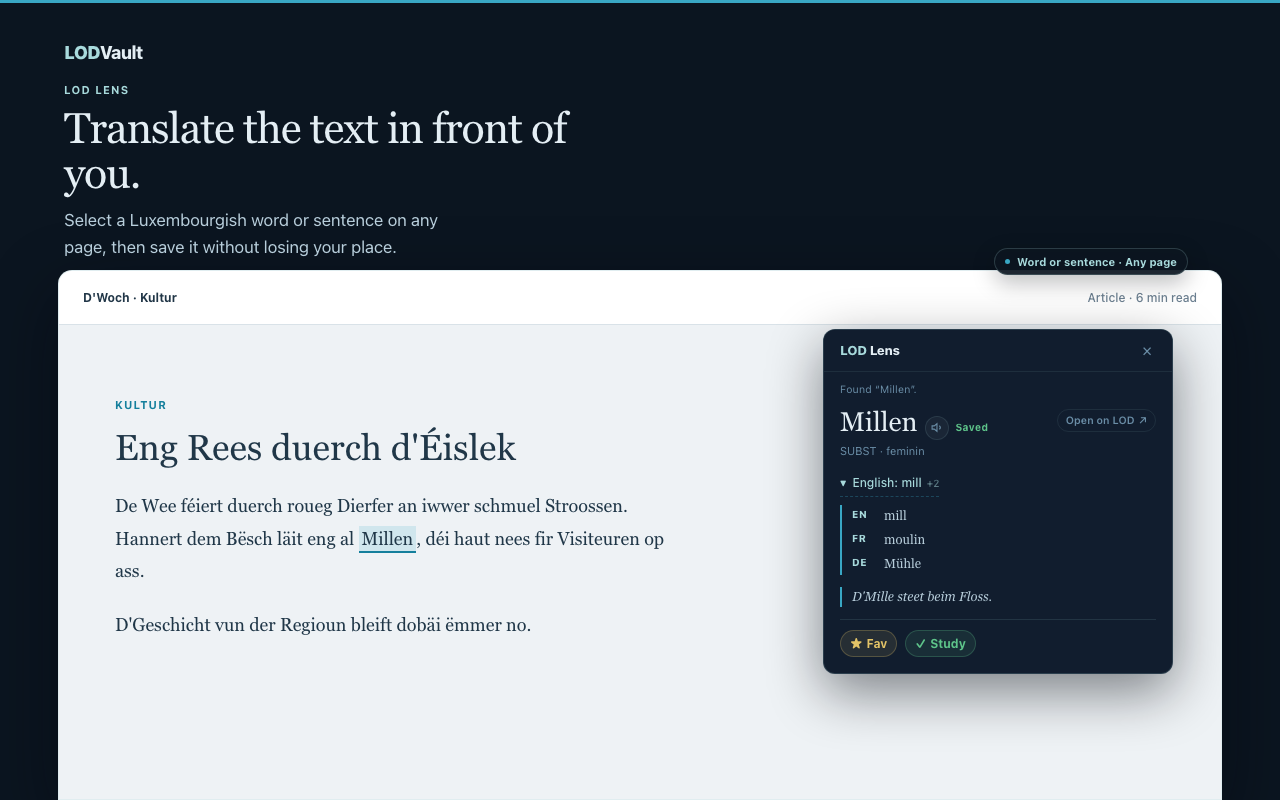
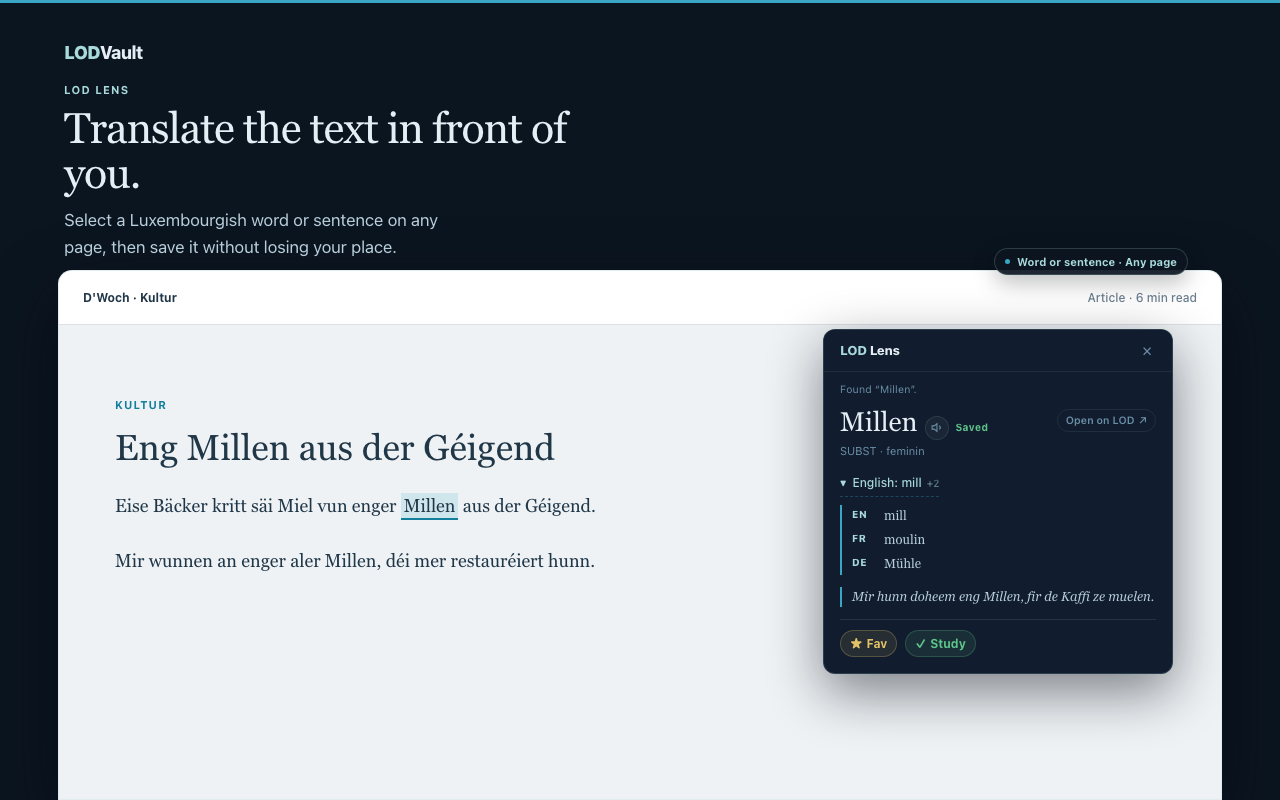
docs: use verified LOD examples in Lens artwork

diff --git a/media/webstore/05-lod-lens.html b/media/webstore/05-lod-lens.html
@@ -11,9 +11,9 @@
     <div class="lens-hostbar">D'Woch · Kultur <span>Article · 6 min read</span></div>
     <article class="lens-article">
       <p class="section">Kultur</p>
-      <h2>Eng Rees duerch d'Éislek</h2>
-      <p>De Wee féiert duerch roueg Dierfer an iwwer schmuel Stroossen. Hannert dem Bësch läit eng al <mark>Millen</mark>, déi haut nees fir Visiteuren op ass.</p>
-      <p>D'Geschicht vun der Regioun bleift dobäi ëmmer no.</p>
+      <h2>Eng Millen aus der Géigend</h2>
+      <p>Eise Bäcker kritt säi Miel vun enger <mark>Millen</mark> aus der Géigend.</p>
+      <p>Mir wunnen an enger aler Millen, déi mer restauréiert hunn.</p>
     </article>
     <div id="lodvault-lens-overlay-root" class="is-visible">
       <div class="lodvault-lens-backdrop"></div>
@@ -26,7 +26,7 @@
             <a class="lodvault-lens-open" href="#">Open on LOD <span>↗</span></a>
           </div>
           <div class="lodvault-lens-meanings"><button class="meaning-toggle" aria-expanded="true"><span class="meaning-toggle-arrow">▶</span><span class="meaning-toggle-text">English: mill</span><span class="meaning-toggle-count">+2</span></button><div class="meaning-expand is-open"><div class="meaning-row"><span class="meaning-label">EN</span><span class="meaning-value">mill</span></div><div class="meaning-row"><span class="meaning-label">FR</span><span class="meaning-value">moulin</span></div><div class="meaning-row"><span class="meaning-label">DE</span><span class="meaning-value">Mühle</span></div></div></div>
-          <p class="lodvault-lens-example">D'Mille steet beim Floss.</p>
+          <p class="lodvault-lens-example">Mir hunn doheem eng Millen, fir de Kaffi ze muelen.</p>
           <div class="lodvault-lens-actions"><button class="toggle-pill toggle-fav is-active"><span class="toggle-pill-icon">★</span><span>Fav</span></button><button class="toggle-pill toggle-study is-active"><span class="toggle-pill-icon">✓</span><span>Study</span></button></div>
         </div>
       </section>
